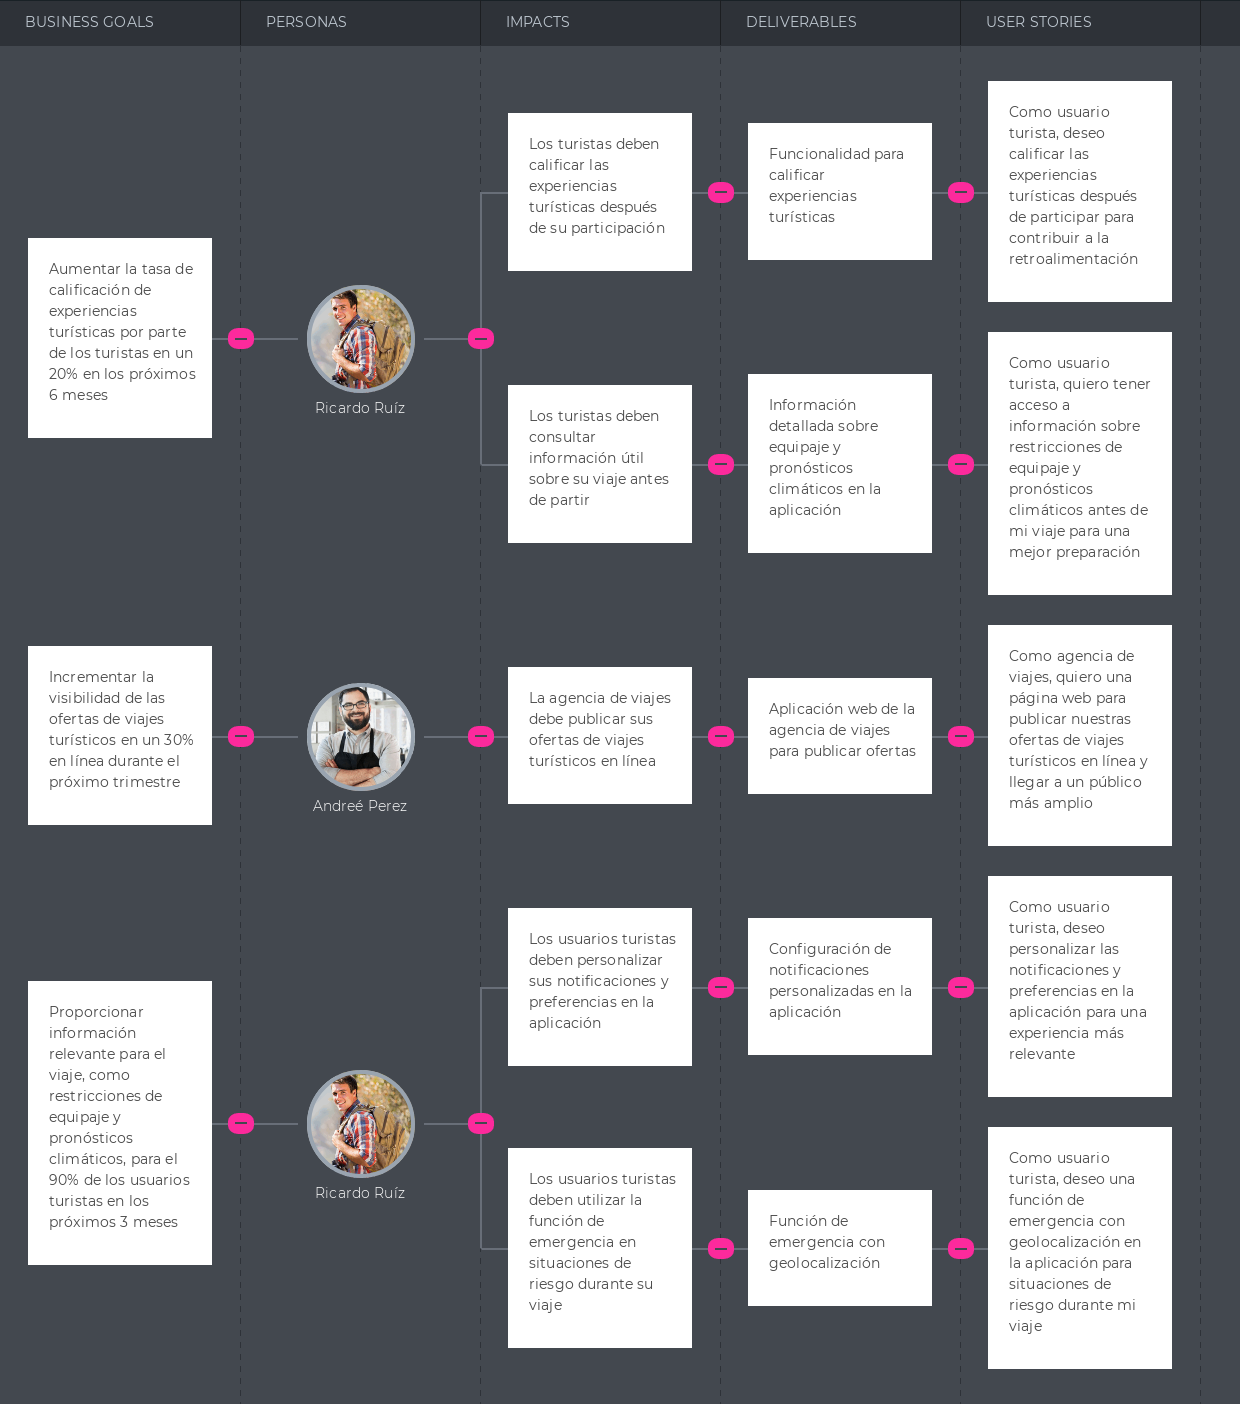
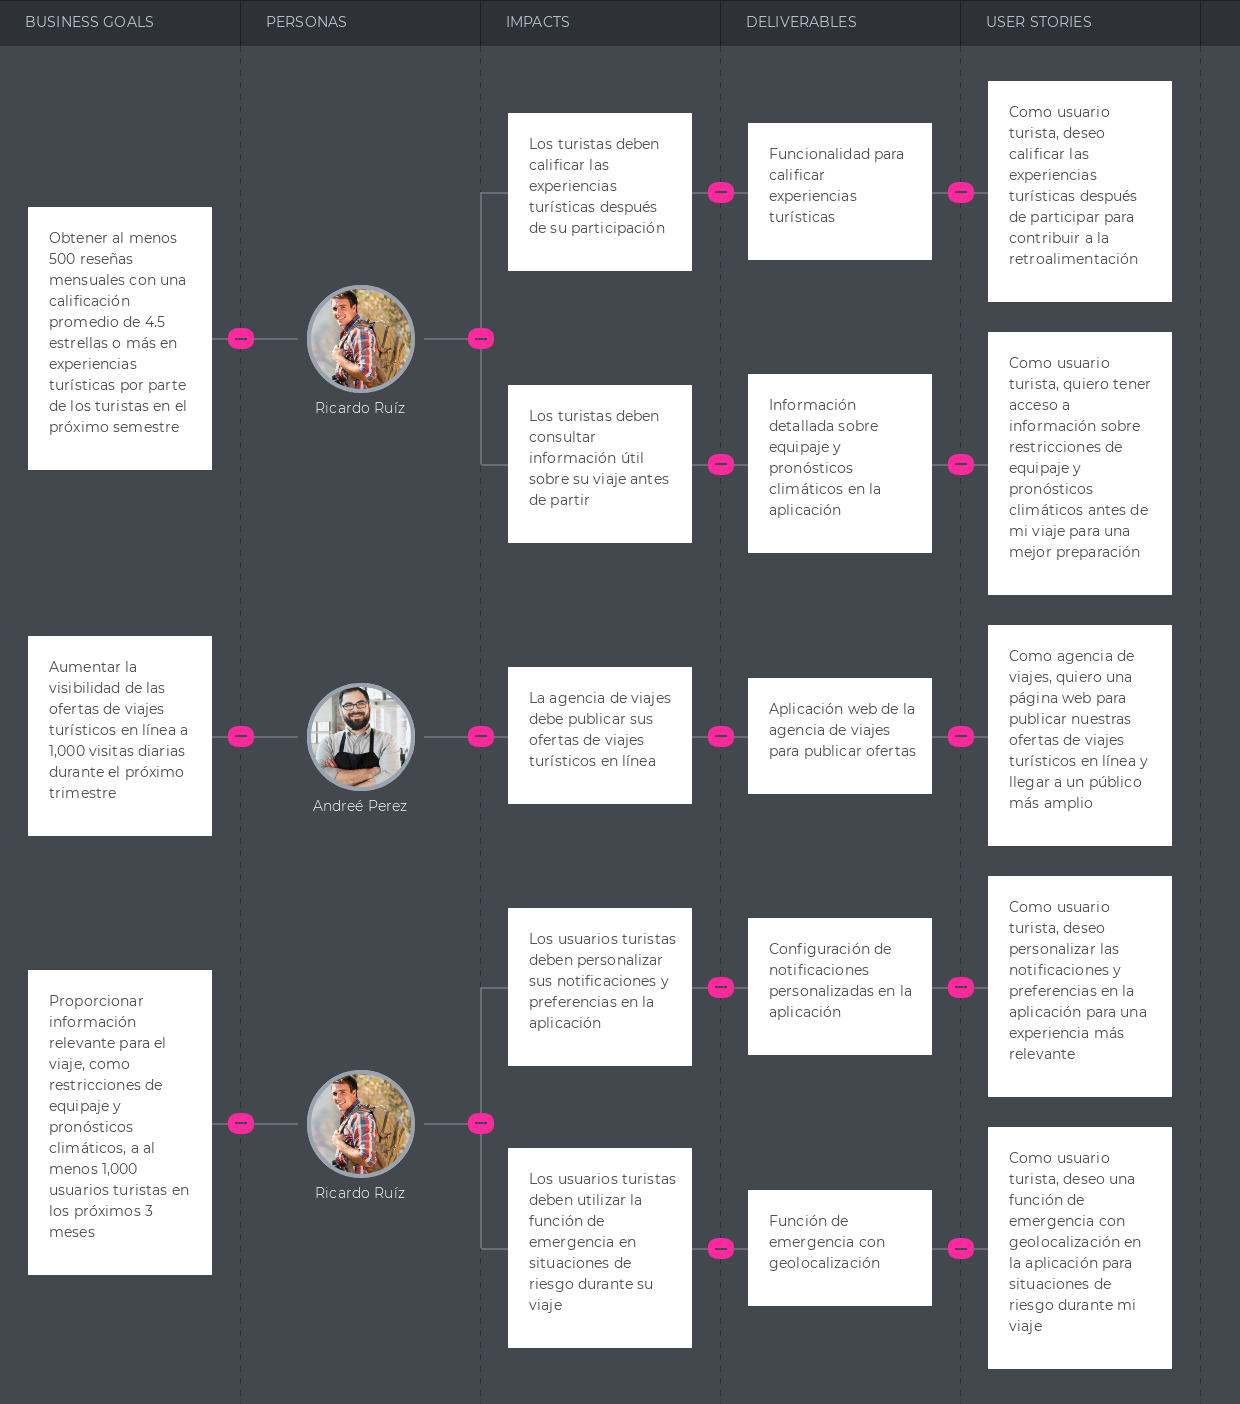
feat(impact mapping): Updated business goals

Changed region(s): [[0.0, 0.1225, 0.1839, 0.3369], [0.0306, 0.6738, 0.1839, 0.9188], [0.0306, 0.4288, 0.1839, 0.6125]]

diff --git a/Capitulo_III_Requirements_Specification.md b/Capitulo_III_Requirements_Specification.md
@@ -62,7 +62,7 @@ En esta sección, profundizaremos en la definición y elaboración de las User S
 ## 3.3. Impact Mapping.
 En esta sección, nuestro equipo presenta el Impact Mapping, el cual es una herramienta visual y colaborativa que ayuda a los equipos a alinear sus objetivos con los resultados deseados.
 
-[![Impact mapping](https://raw.githubusercontent.com/NexusNova-IOT/upc-pre-202302-si572-SW71-nexusnova-report/feature/chapter-3/Resources/maps/ImpactMapping.png)](https://uxpressia.com/w/MLSwR/i/TqqtE)
+[![Impact mapping](https://raw.githubusercontent.com/NexusNova-IOT/upc-pre-202302-si572-SW71-nexusnova-report/feature/chapter-6/Resources/maps/ImpactMapping.png)](https://uxpressia.com/w/MLSwR/i/TqqtE)
 
 Enlace: [Impact map en UXPRESSIA](https://uxpressia.com/w/MLSwR/i/TqqtE)
 
